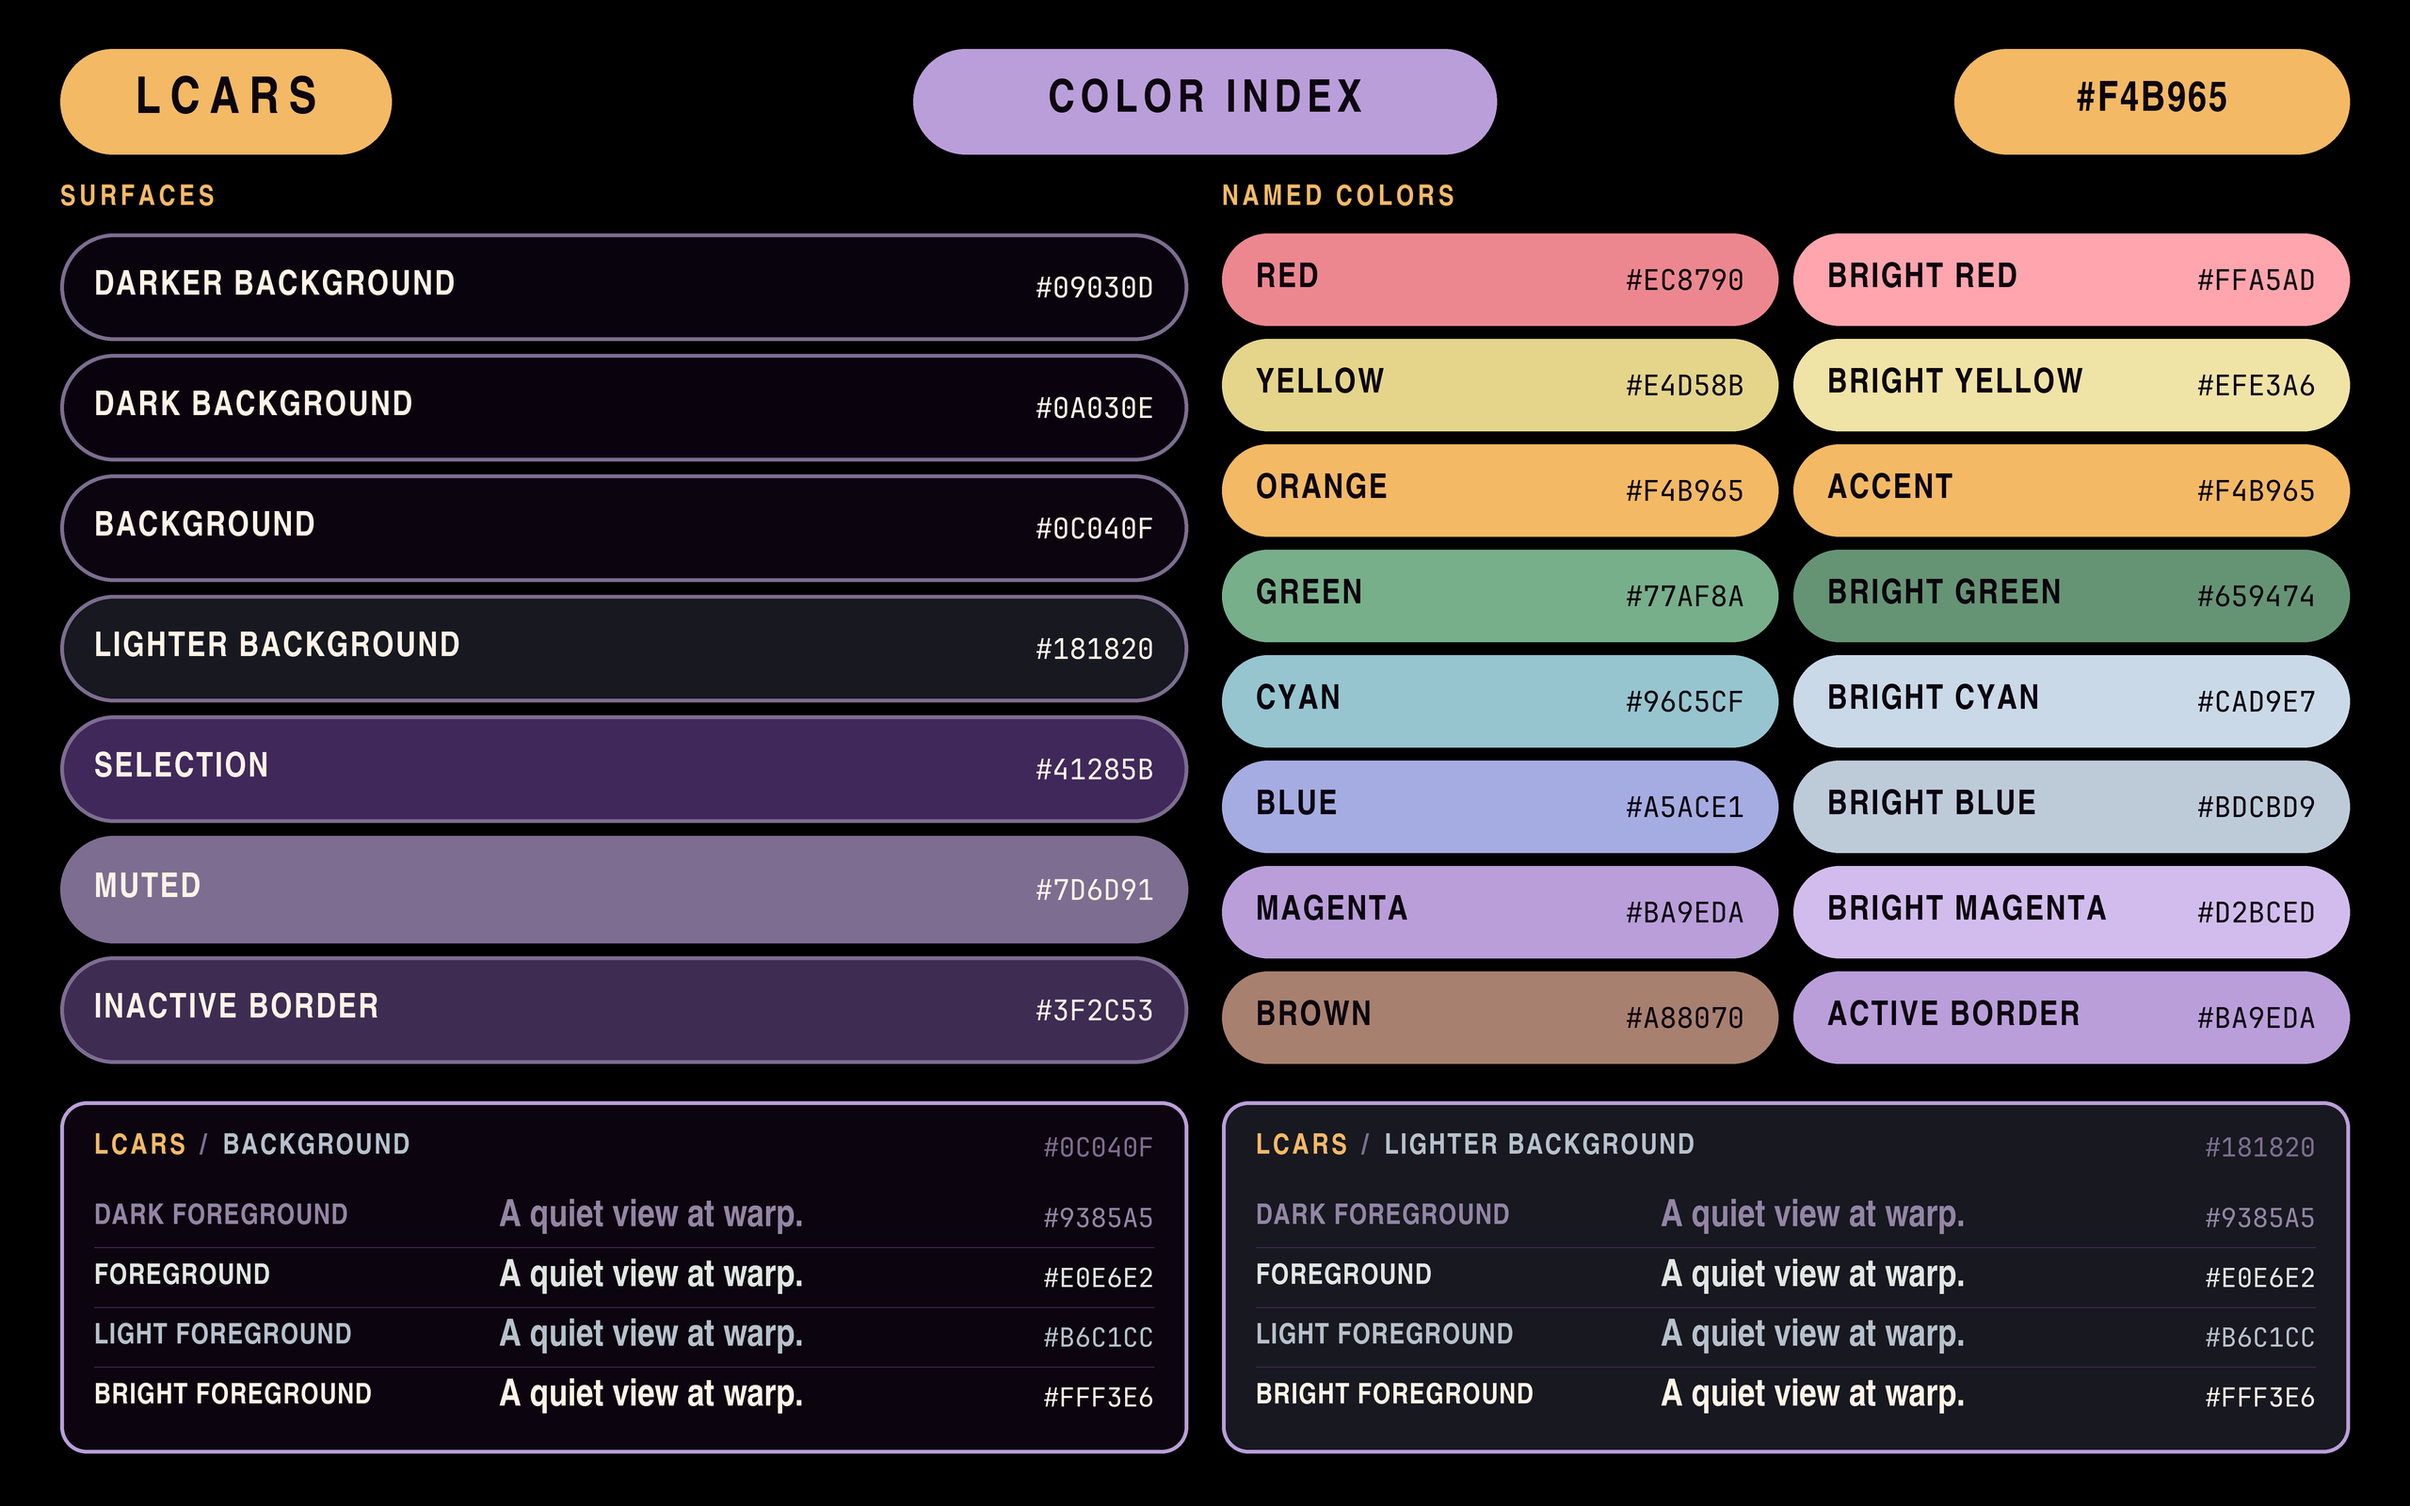
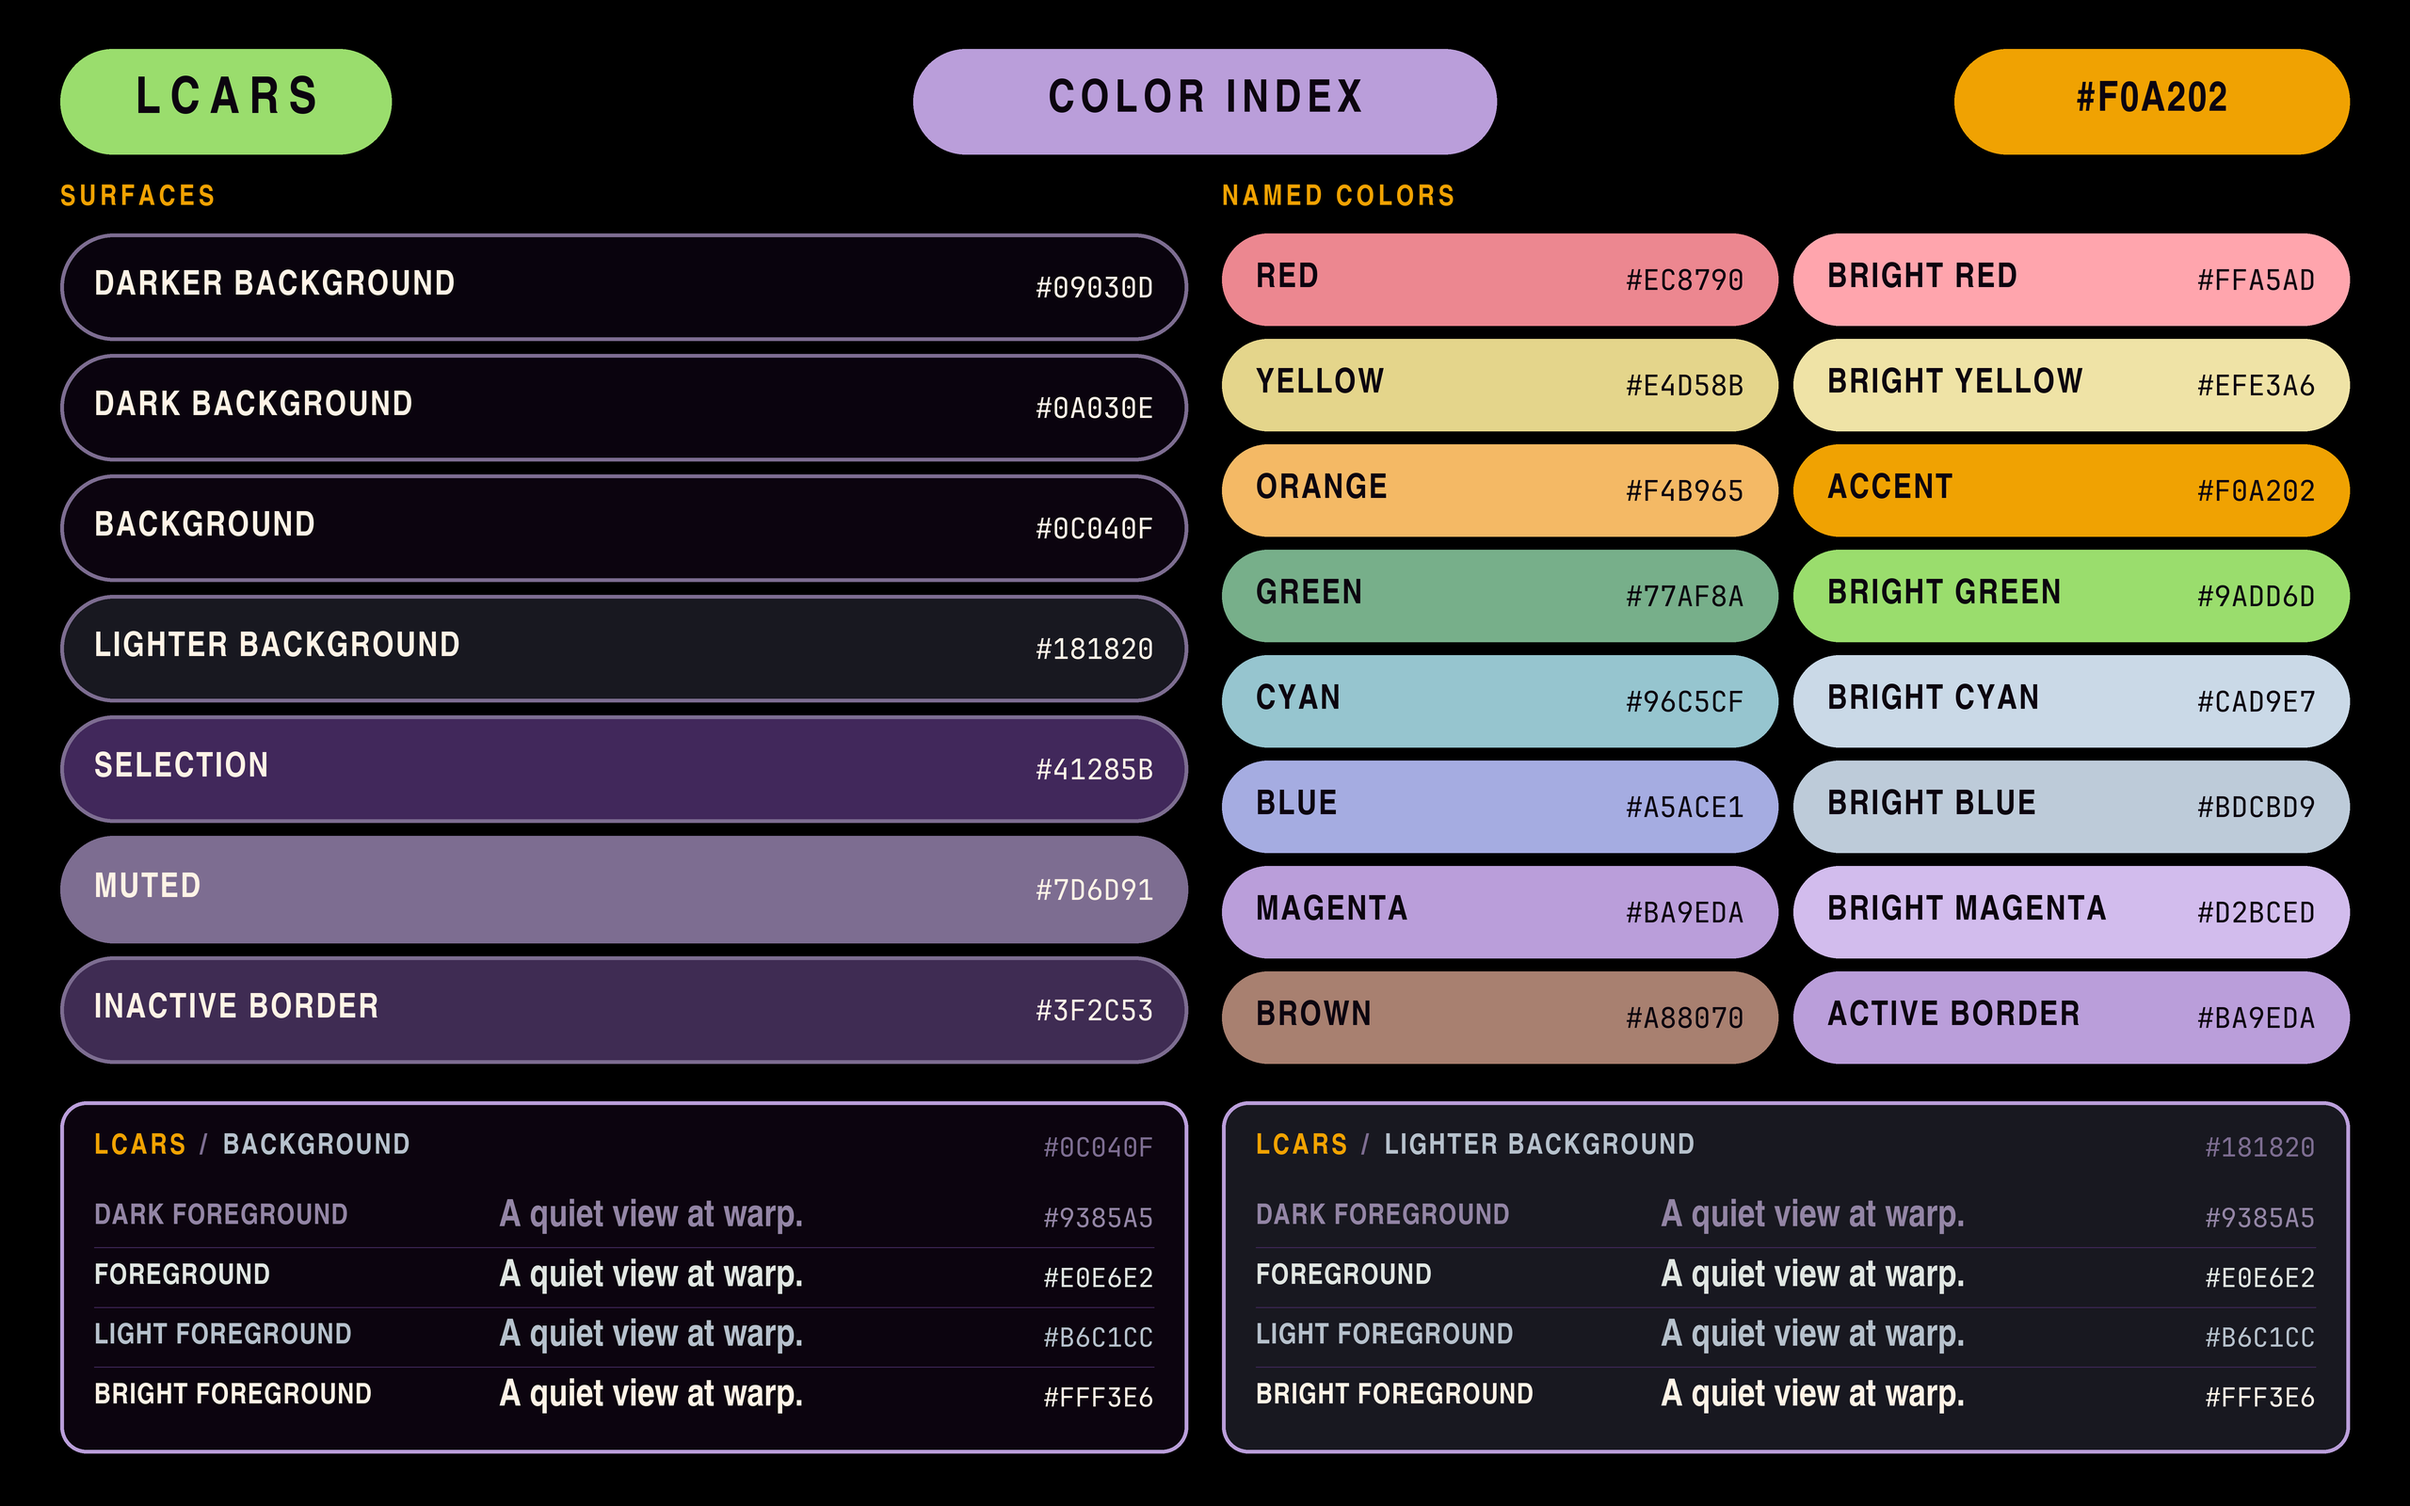
Definitive palette

diff --git a/plugins/lcars.menu/BarWidget.qml b/plugins/lcars.menu/BarWidget.qml
@@ -37,7 +37,7 @@ BarWidget {
       anchors.top: parent.top
       height: parent.height - 2
       radius: 12
-      color: "#77af8a"
+      color: "#9add6d"
     }
     Text {
       visible: root.lcars

diff --git a/scripts/palette.py b/scripts/palette.py
@@ -209,7 +209,7 @@ def render(colors):
     right_box = (hx + hw - right_w, hy, right_w, hh)
     center_box = (hx + (hw - center_w) / 2, hy, center_w, hh)
 
-    board.header_pill(left_box, colors["accent"], "LCARS", 54, 10)
+    board.header_pill(left_box, colors["bright_green"], "LCARS", 54, 10)
     board.header_pill(center_box, colors["magenta"], "COLOR INDEX", 48, 6)
     board.header_pill(right_box, colors["accent"], accent_code, 44, 2)
 
